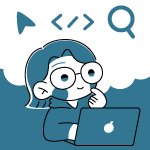
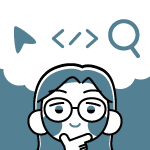
名刺カードのデザインを調整

diff --git a/css/profile.css b/css/profile.css
@@ -70,10 +70,10 @@ profile
 	width: 150px;
 	height: 150px;
 	aspect-ratio: 1 / 1;
-	object-fit: contain;
 	border-radius: var(--rd-sm);
 	pointer-events: none;
-	border: solid 4px var(--primary-orange);
+	border: solid 4px #EF9844;
+	background-color: #EF9844;
 }
 
 .profile-txt-box {
@@ -123,7 +123,8 @@ profile
 }
 
 .profile-card._02 .profile-img-box img {
-	border-color: var(--accent-blue);
+	border-color: #538092;
+	background-color: #538092;
 }
 
 .profile-card._02 .profile-name {
@@ -140,7 +141,8 @@ profile
 }
 
 .profile-card._03 .profile-img-box img {
-	border-color: var(--accent-yellow);
+	border-color: #EDCA49;
+	background-color: #EDCA49;
 }
 
 .profile-card._03 .profile-name {
@@ -157,7 +159,8 @@ profile
 }
 
 .profile-card._04 .profile-img-box img {
-	border-color: var(--accent-red);
+	border-color: #E67B5E;
+	background-color: #E67B5E;
 }
 
 .profile-card._04 .profile-name {

diff --git a/profile.html b/profile.html
@@ -108,7 +108,7 @@
                     </div>
                     <div  class="profile-card _01" id="profileCard">
                         <div class="profile-img-box">
-                            <img src="img/似顔絵_TEAO.png" width="150px" height="auto" alt="TAE CHIBA img">
+                            <img src="img/card_img01.png" width="150px" height="auto" alt="TAE CHIBA img">
                         </div>
                         <div class="profile-txt-box">
                             <div class="profile-name-box">
